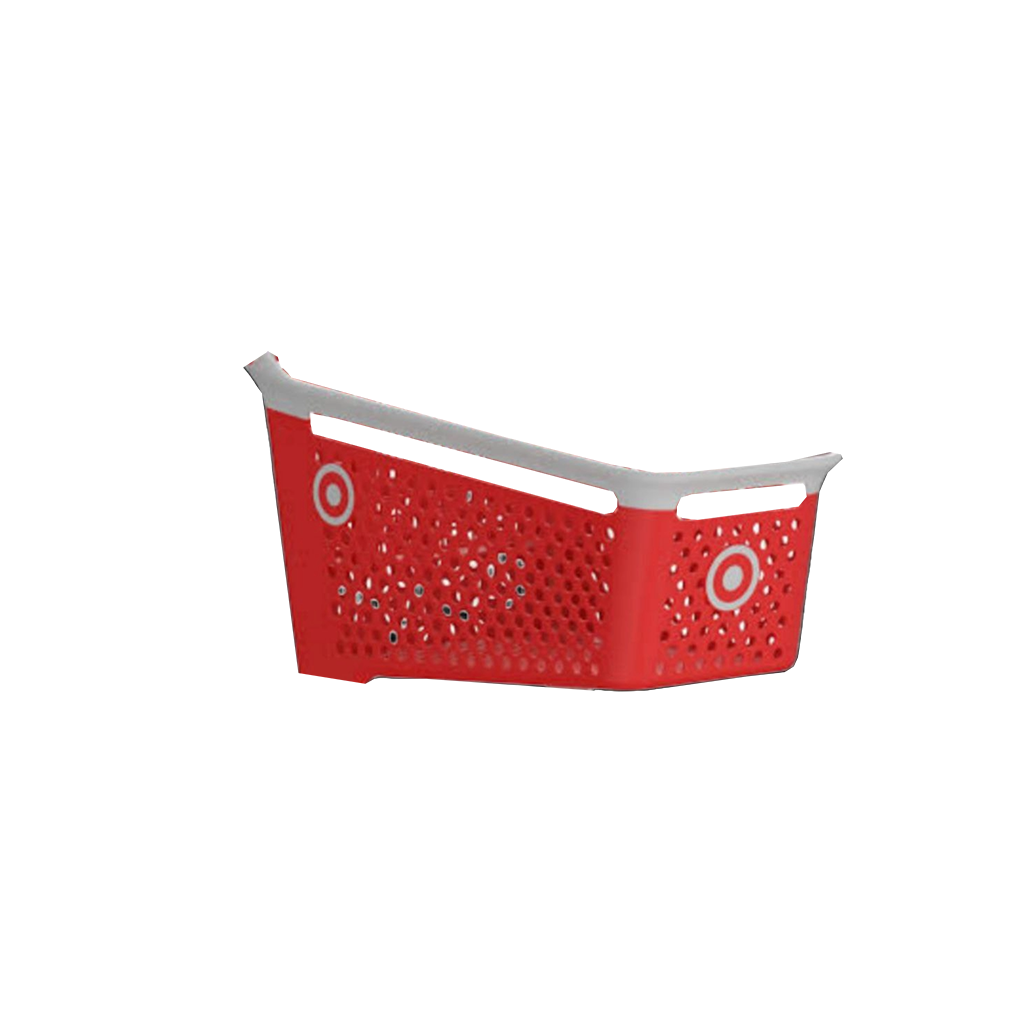
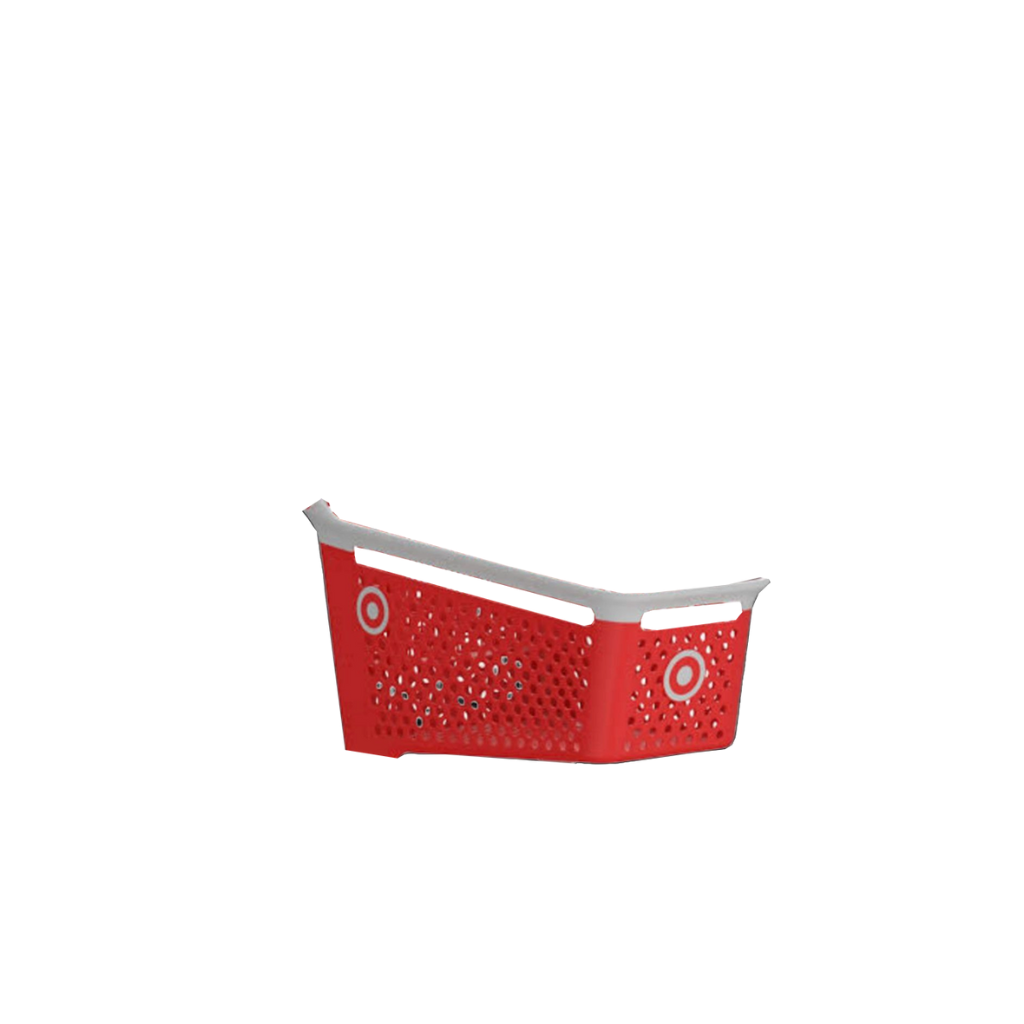
Add files via upload

Changed region(s): [[0.2188, 0.3438, 0.8438, 0.75]]

diff --git a/app.py b/app.py
@@ -40,11 +40,11 @@ def create_meme(uploaded_image_path, background_image_path, cart_back_path, cart
         uploaded_image = Image.open(uploaded_image_path).convert("RGBA")
         uploaded_image = remove(uploaded_image)
         uploaded_image = crop_to_content(uploaded_image)
-        uploaded_image = resize_image_maintain_aspect_ratio(uploaded_image, 500)
+        uploaded_image = resize_image_maintain_aspect_ratio(uploaded_image, 400)
 
         cart_width, cart_height = cart_back.size
-        x_offset = ((cart_width - uploaded_image.width) // 2) + 50
-        y_offset = cart_height - 925
+        x_offset = ((cart_width - uploaded_image.width) // 2) + 40
+        y_offset = cart_height - 740
 
         meme.paste(uploaded_image, (x_offset, y_offset), mask=uploaded_image)
     meme.paste(cart_front, (0, 0), mask=cart_front)
